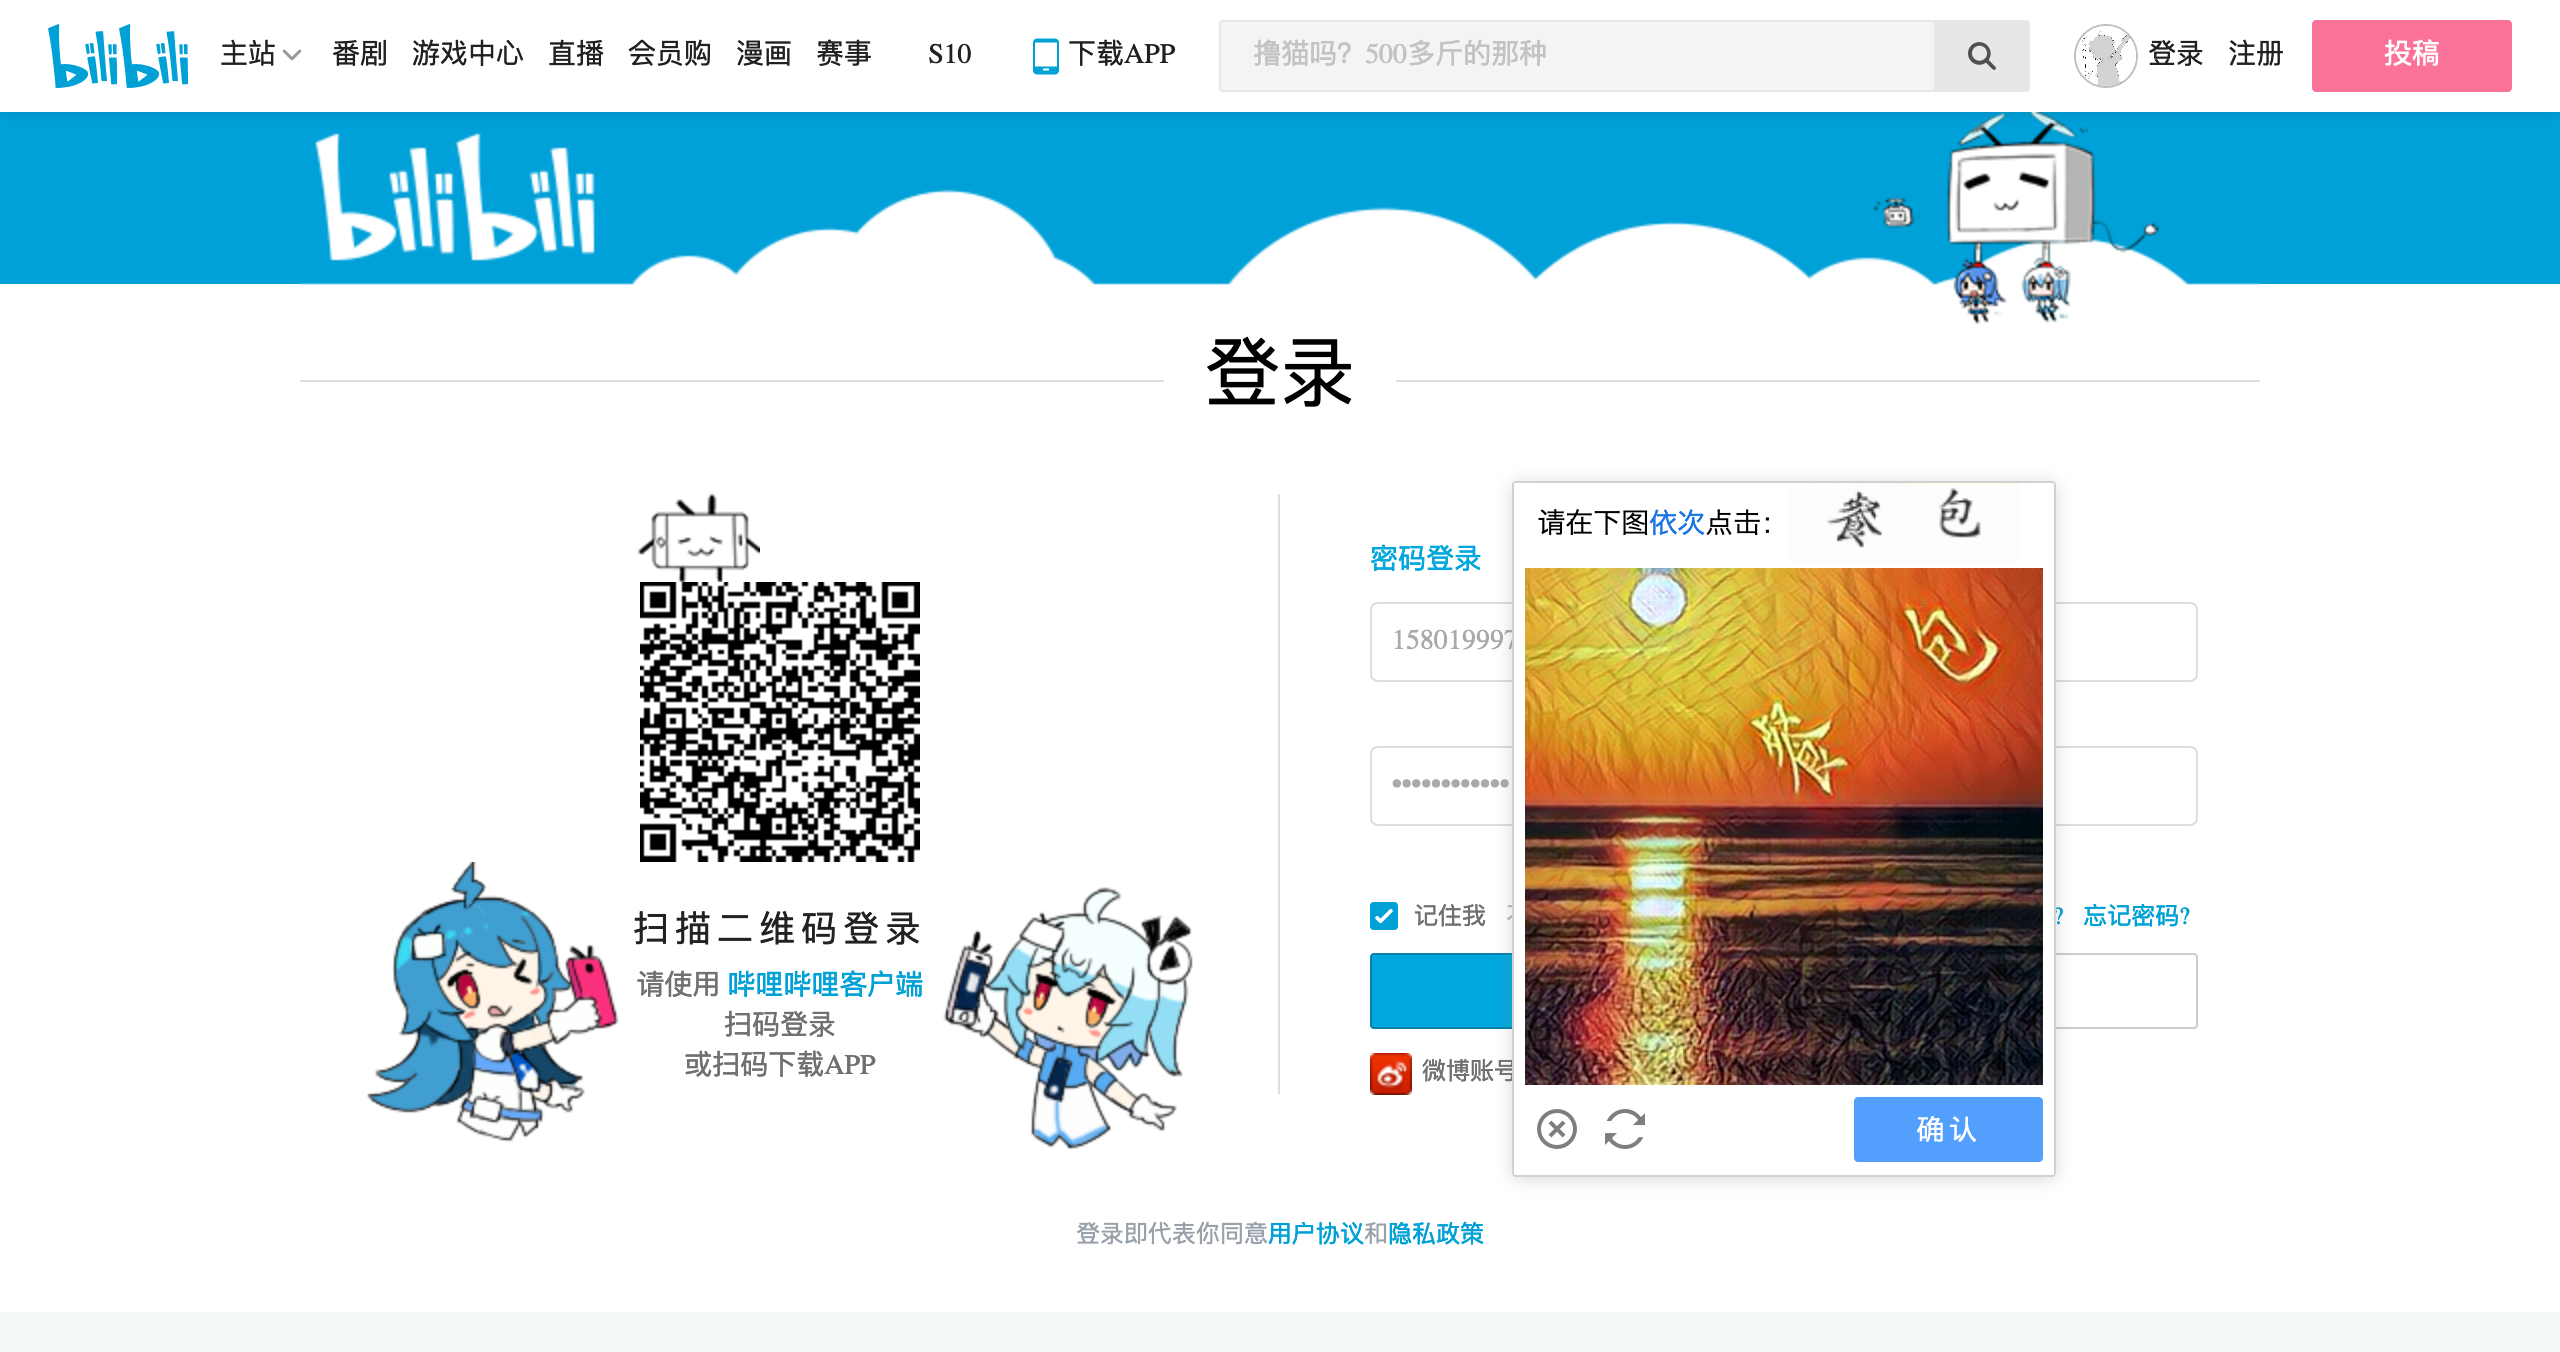
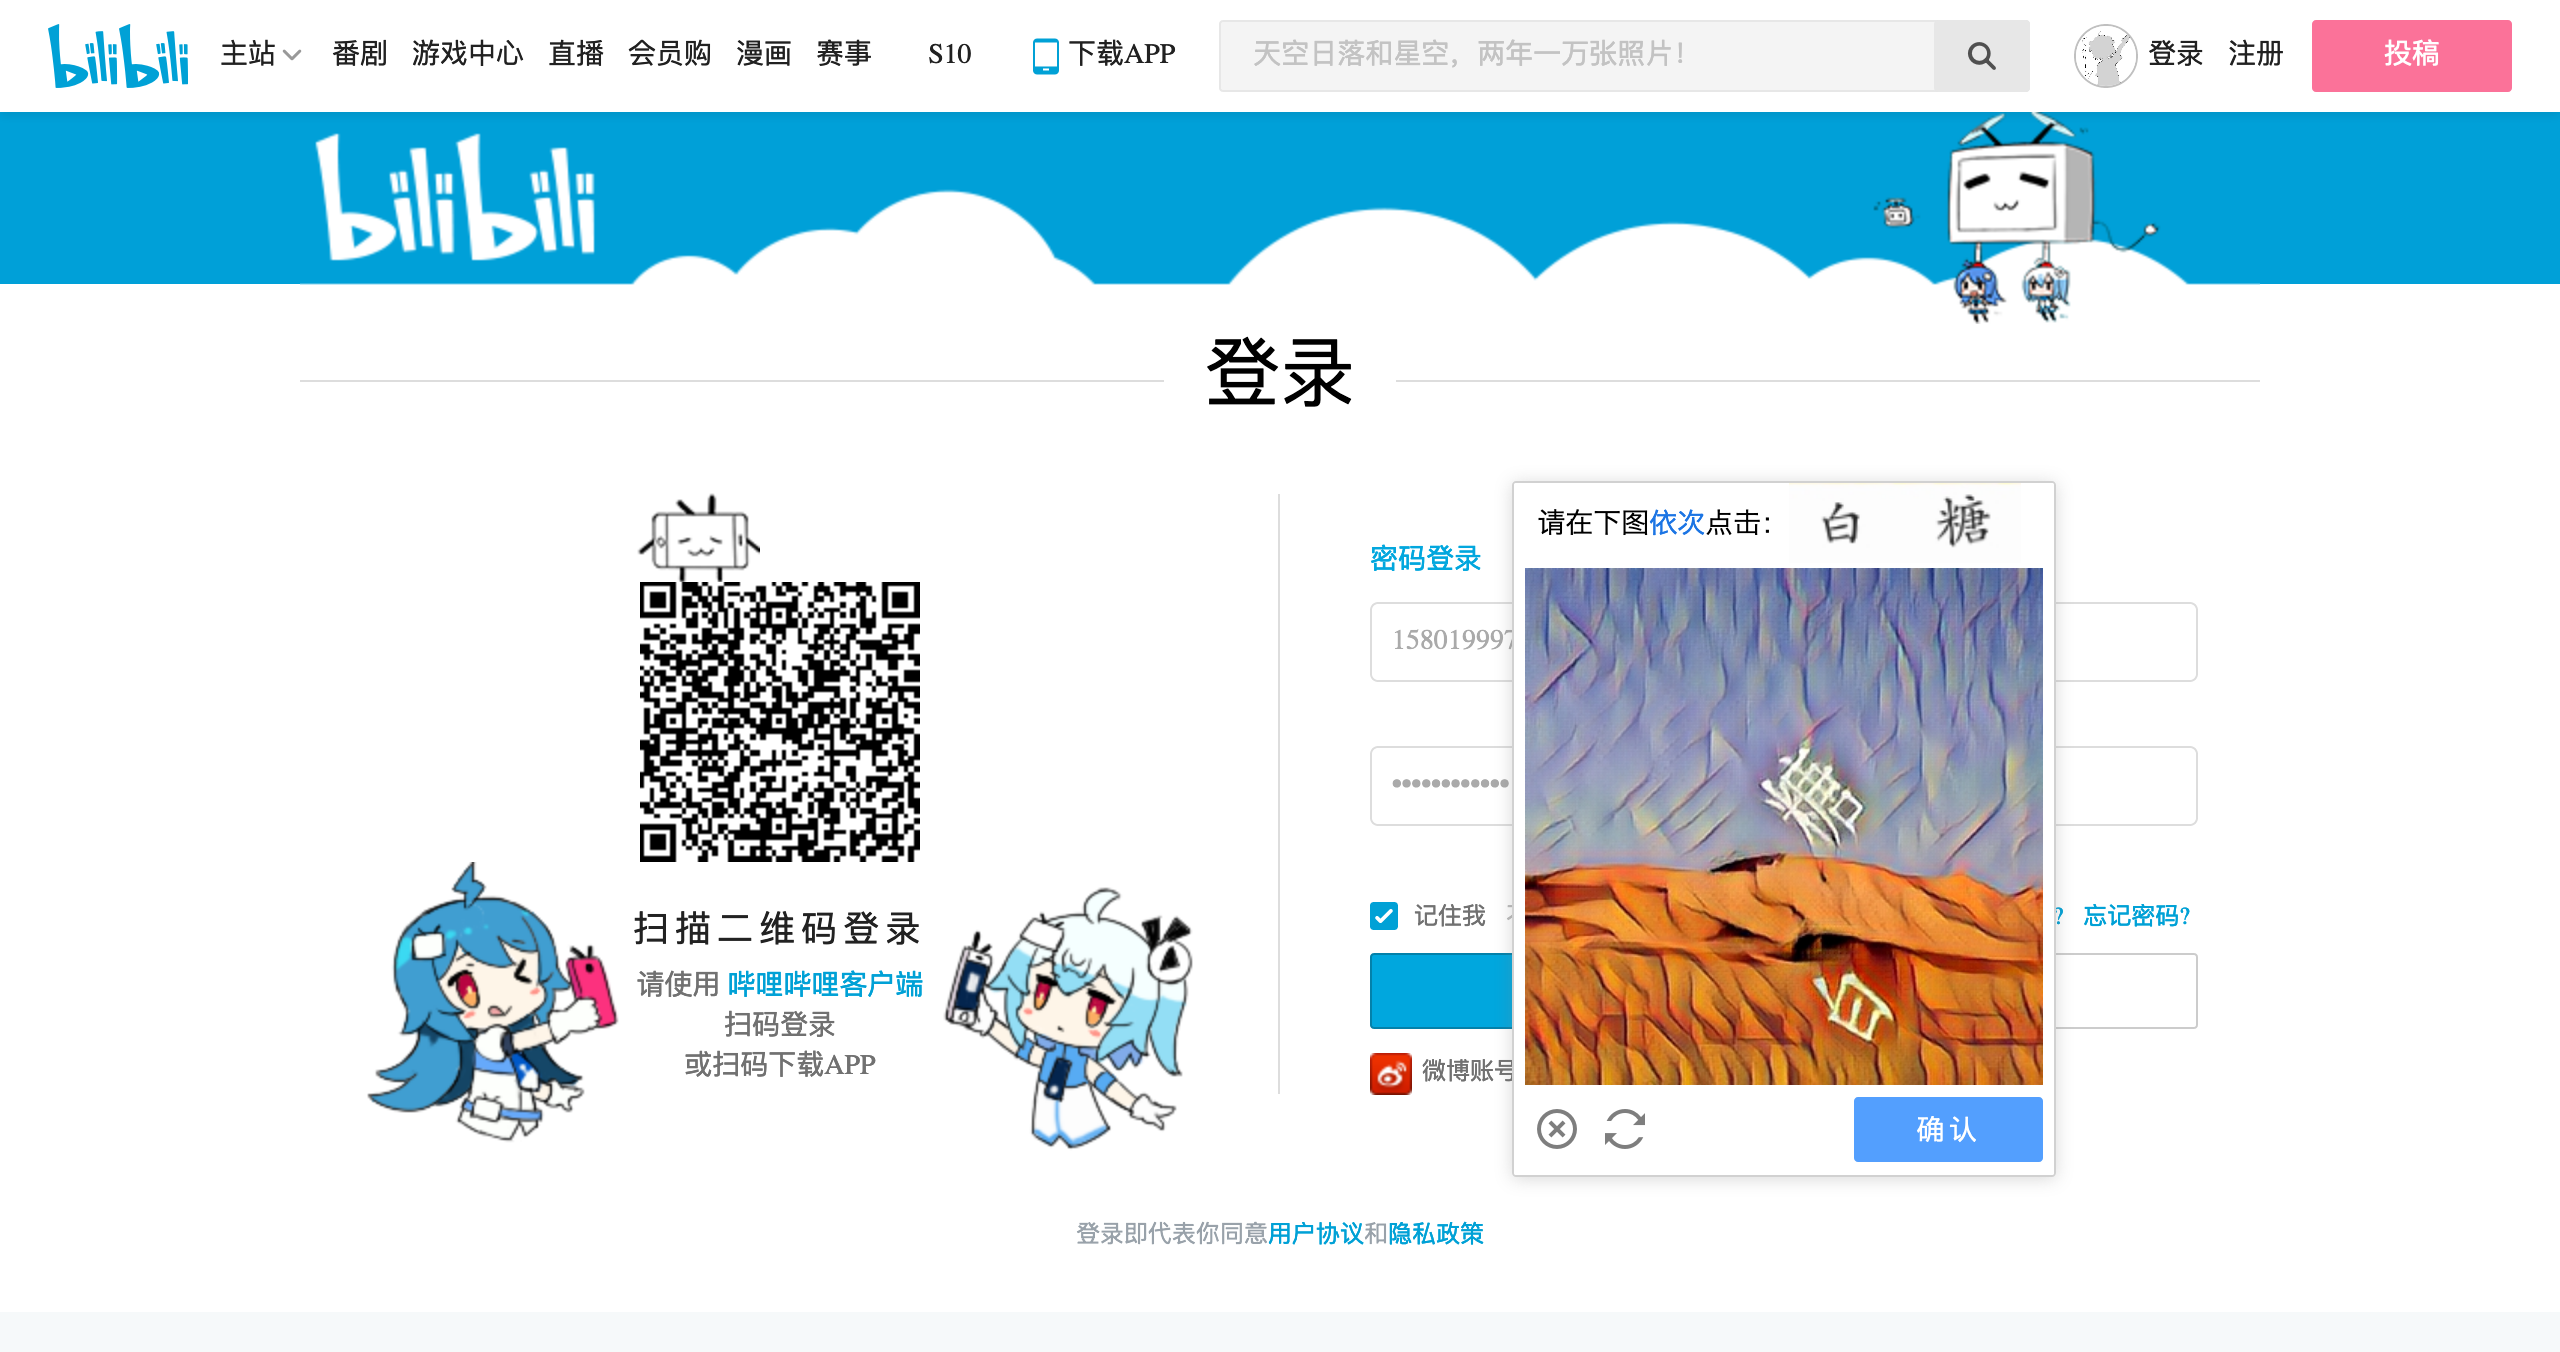
modify offset position

Changed region(s): [[0.5938, 0.3728, 0.8125, 0.8077], [0.25, 0.4349, 0.375, 0.6524], [0.5, 0.0311, 0.6562, 0.0621]]

diff --git a/logins/bilibili_login.py b/logins/bilibili_login.py
@@ -1,7 +1,13 @@
+#--coding: UTF-8 --
+"""
+__author__: "Chloe Ji" ji.jie@edhec.com
+Update Date: 2020-10-19 
+"""
+
 import io
 from time import sleep, time
-import selenium
 from PIL import Image
+import selenium
 from selenium import webdriver
 from selenium.webdriver.common.by import By
 from selenium.webdriver import ActionChains
@@ -9,7 +15,7 @@ from selenium.webdriver.support.wait import WebDriverWait
 from selenium.webdriver.support import expected_conditions as EC
 from chaojiying import ChaojiyingClient
 import configparser
-# 这个需要有图片识别,OCR的基础
+from pprint import pprint
 
 
 config = configparser.ConfigParser() 
@@ -19,7 +25,7 @@ class Bilibili:
     def __init__(self):
         self.login_url= "https://passport.bilibili.com/login"
         self.browser= webdriver.Firefox(executable_path="/Users/chloeji/geckodriver")
-        self.driver_wait= WebDriverWait(self.browser, 30)
+        self.driver_wait= WebDriverWait(self.browser, 60)
         """
         超级鹰的用户名、密码以及软件 ID
         """
@@ -32,13 +38,13 @@ class Bilibili:
         
     def send_infos(self, username, password):
         self.browser.get(self.login_url)
-        username_sender= self.driver_wait.until(EC.presence_of_element_located((By.XPATH, "//*[@id='login-username']")))
+        username_sender = self.driver_wait.until(EC.presence_of_element_located((By.XPATH, "//*[@id='login-username']")))
         username_sender.send_keys(username)
-        password_sender= self.driver_wait.until(EC.presence_of_element_located((By.XPATH, "//*[@id='login-passwd']")))
+        password_sender = self.driver_wait.until(EC.presence_of_element_located((By.XPATH, "//*[@id='login-passwd']")))
         password_sender.send_keys(password)
 
     def get_verify_button(self):
-        button= self.driver_wait.until(EC.presence_of_element_located((By.XPATH, "//a[@class='btn btn-login']")))
+        button = self.driver_wait.until(EC.presence_of_element_located((By.XPATH, "//a[@class='btn btn-login']")))
         print(button.text)
         sleep(3)
         return button
@@ -51,11 +57,11 @@ class Bilibili:
         return element 
 
     def get_verify_pos(self):
-        element= self.get_verify_elements()
+        element = self.get_verify_elements()
         sleep(2)
-        location= element.location 
+        location = element.location 
         print(location)
-        size= element.size 
+        size = element.size 
         print(size)
         top, buttom, left, right= \
             location["y"]*2, \
@@ -67,8 +73,8 @@ class Bilibili:
 
     def get_screenshoot(self):
         # http://allselenium.info/taking-screenshot-using-python-selenium-webdriver/
-        screenshoot= self.browser.get_screenshot_as_png()
-        screenshoot= Image.open(io.BytesIO(screenshoot))
+        screenshoot = self.browser.get_screenshot_as_png()
+        screenshoot = Image.open(io.BytesIO(screenshoot))
         sleep(5)
         screenshoot.save("screenshoot.png")
 
@@ -79,54 +85,56 @@ class Bilibili:
         print(f"验证码位置：{top, buttom, left, right}")
 
         screenshoot = self.get_screenshoot() 
-        verification_area= screenshoot.crop((left, top, right, buttom))
+        verification_area = screenshoot.crop((left, top, right, buttom))
         verification_area.save(name)
 
         return verification_area 
 
     def get_points(self, verify_result):
-        groups= verify_result.get("pic_str").split("|")
-        locations= [[int(number) for number in group.split(",")] for group in groups]
+        groups = verify_result.get("pic_str").split("|")
+        locations = [[int(number) for number in group.split(",")] for group in groups]
         return locations 
 
     def touch_click_words(self, locations):
         for location in locations:
             print(location)
-            ActionChains(self.browser).move_to_element_with_offset(self.get_verify_elements(),\
-                location[0], \
-                    location[1]).\
-                        click().\
-                            perform()
+            X_OFFSET = location[0]
+            Y_OFFSET = location[1]
+            ActionChains(self.browser).\
+                move_to_element(self.get_verify_elements()).\
+                    click().\
+                        perform()
             sleep(3)
 
     def touch_click_verify(self):
-        button= self.driver_wait.until(EC.element_to_be_clickable((By.CLASS_NAME, "geetest_commit")))
+        button = self.driver_wait.until(EC.element_to_be_clickable((By.CLASS_NAME, "geetest_commit")))
         button.click()
 
     def login(self):
-        submit= self.driver_wait.until(EC.element_to_be_clickable((By.CLASS_NAME, "btn btn-login")))
+        submit = self.driver_wait.until(EC.element_to_be_clickable((By.CLASS_NAME, "btn btn-login")))
         submit.click()
         sleep(10)
         print("登录成功。")
 
     def crack(self, user, pswd):
+        self.browser.execute_script("document.body.style.transform='scale(0.9)';")
         self.send_infos(user, pswd)
-        button= self.get_verify_button() 
-        button.click() 
+        button = self.get_verify_button()
+        button.click()
         # 开始识别码
-        image= self.get_verify_image()
-        bytes_array= io.BytesIO()
+        image = self.get_verify_image()
+        bytes_array = io.BytesIO()
         image.save(bytes_array, "PNG")
 
-        result= self.chaojiying.PostPic(bytes_array.getvalue(), self.CHAOJIYING_KIND)
+        result = self.chaojiying.PostPic(bytes_array.getvalue(), self.CHAOJIYING_KIND)
         print(result)
 
-        locations= self.get_points(result)
+        locations = self.get_points(result)
         self.touch_click_words(locations)
         self.touch_click_verify() 
         sleep(3)
         try:
-            success= self.driver_wait.until(EC.text_to_be_present_in_element((By.CLASS_NAME, \
+            success = self.driver_wait.until(EC.text_to_be_present_in_element((By.CLASS_NAME, \
                 "bilifont bili-icon_dingdao_zhuzhan"), \
                     "主站"))
             print(success)
@@ -139,7 +147,7 @@ class Bilibili:
 
 
 if __name__ == "__main__":
-    bilibili_login= "login_info"
-    user= config.get(bilibili_login, "user")
-    pswd= config.get(bilibili_login, "password")
+    bilibili_login = "login_info"
+    user = config.get(bilibili_login, "user")
+    pswd = config.get(bilibili_login, "password")
     Bilibili().crack(user, pswd)
